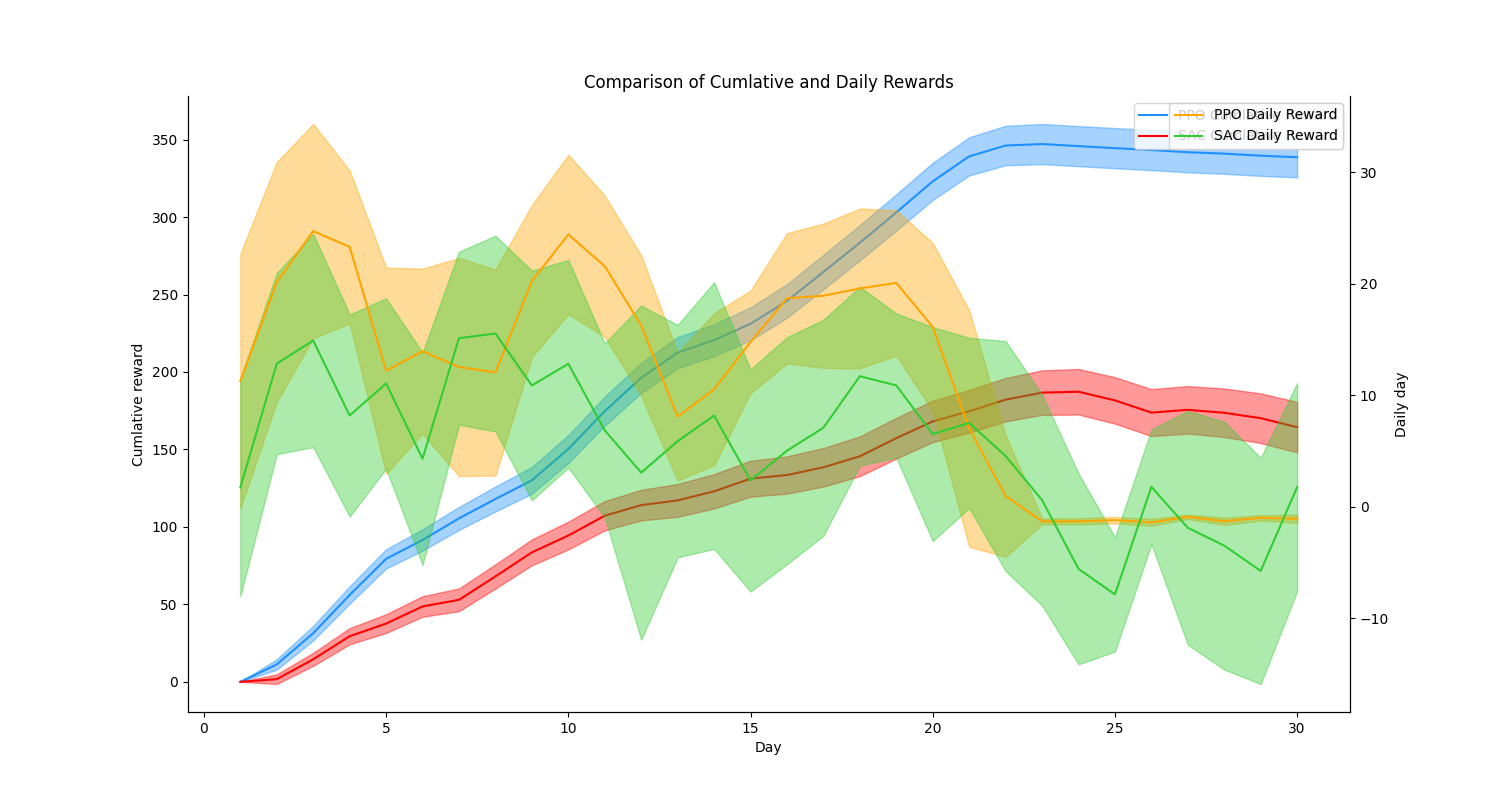
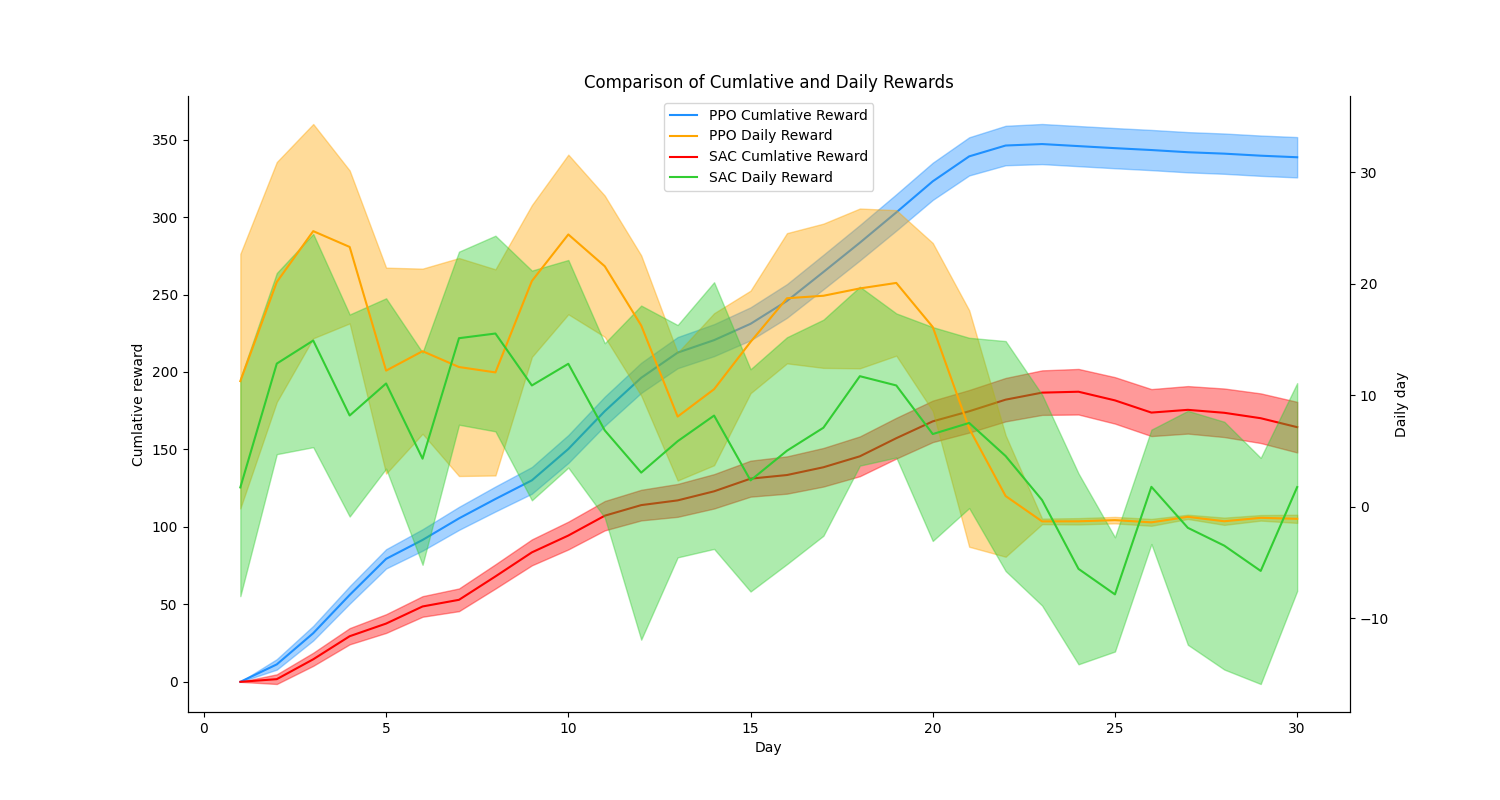
Fix: Comparison Legend Plot

Changed region(s): [[0.46, 0.125, 0.5827, 0.25], [0.736, 0.125, 0.8893, 0.1875]]

diff --git a/orgym/imp1/comparison.py b/orgym/imp1/comparison.py
@@ -1,7 +1,7 @@
 import numpy as np
 import matplotlib.pyplot as plt
 import pandas as pd
-
+        
         
 def eval_comparison(ppo_eval, sac_eval, filepath=None):
     '''
@@ -13,14 +13,14 @@ def eval_comparison(ppo_eval, sac_eval, filepath=None):
     x = np.linspace(1, len(ppo_eval['mean_rewards']), len(ppo_eval['mean_rewards']))
 
     ax1.fill_between(x, ppo_eval['cumlative_upper_rewards'], ppo_eval['cumlative_lower_rewards'], color='dodgerblue', alpha=0.4)
-    ax1.plot(x, ppo_eval['cumlative_rewards'], color='dodgerblue', label='PPO Cumlative Reward')
+    lns1 = ax1.plot(x, ppo_eval['cumlative_rewards'], color='dodgerblue', label='PPO Cumlative Reward')
     ax2.fill_between(x, ppo_eval['upper_rewards'], ppo_eval['lower_rewards'], color='orange', alpha=0.4)
-    ax2.plot(x, ppo_eval['mean_rewards'], color='orange', label='PPO Daily Reward')
+    lns2 = ax2.plot(x, ppo_eval['mean_rewards'], color='orange', label='PPO Daily Reward')
 
     ax1.fill_between(x, sac_eval['cumlative_upper_rewards'], sac_eval['cumlative_lower_rewards'], color='red', alpha=0.4)
-    ax1.plot(x, sac_eval['cumlative_rewards'], color='red', label='SAC Cumlative Reward')
+    lns3 = ax1.plot(x, sac_eval['cumlative_rewards'], color='red', label='SAC Cumlative Reward')
     ax2.fill_between(x, sac_eval['upper_rewards'], sac_eval['lower_rewards'], color='limegreen', alpha=0.4)
-    ax2.plot(x, sac_eval['mean_rewards'], color='limegreen', label='SAC Daily Reward')
+    lns4 = ax2.plot(x, sac_eval['mean_rewards'], color='limegreen', label='SAC Daily Reward')
 
     ax1.set_title('Comparison of Cumlative and Daily Rewards')
     ax1.set_ylabel('Cumlative reward')
@@ -28,8 +28,13 @@ def eval_comparison(ppo_eval, sac_eval, filepath=None):
     ax1.set_xlabel('Day')
     ax1.spines['top'].set_visible(False)
     ax2.spines['top'].set_visible(False)
-    ax1.legend()
-    ax2.legend()
+    
+    lns = lns1+lns2+lns3+lns4
+    labs = [l.get_label() for l in lns]
+    ax1.legend(lns,labs, loc=9)
+    
+    # ax1.legend(loc=1)
+    # ax2.legend(loc=0)
 
     if filepath != None:
         plt.savefig(filepath)
